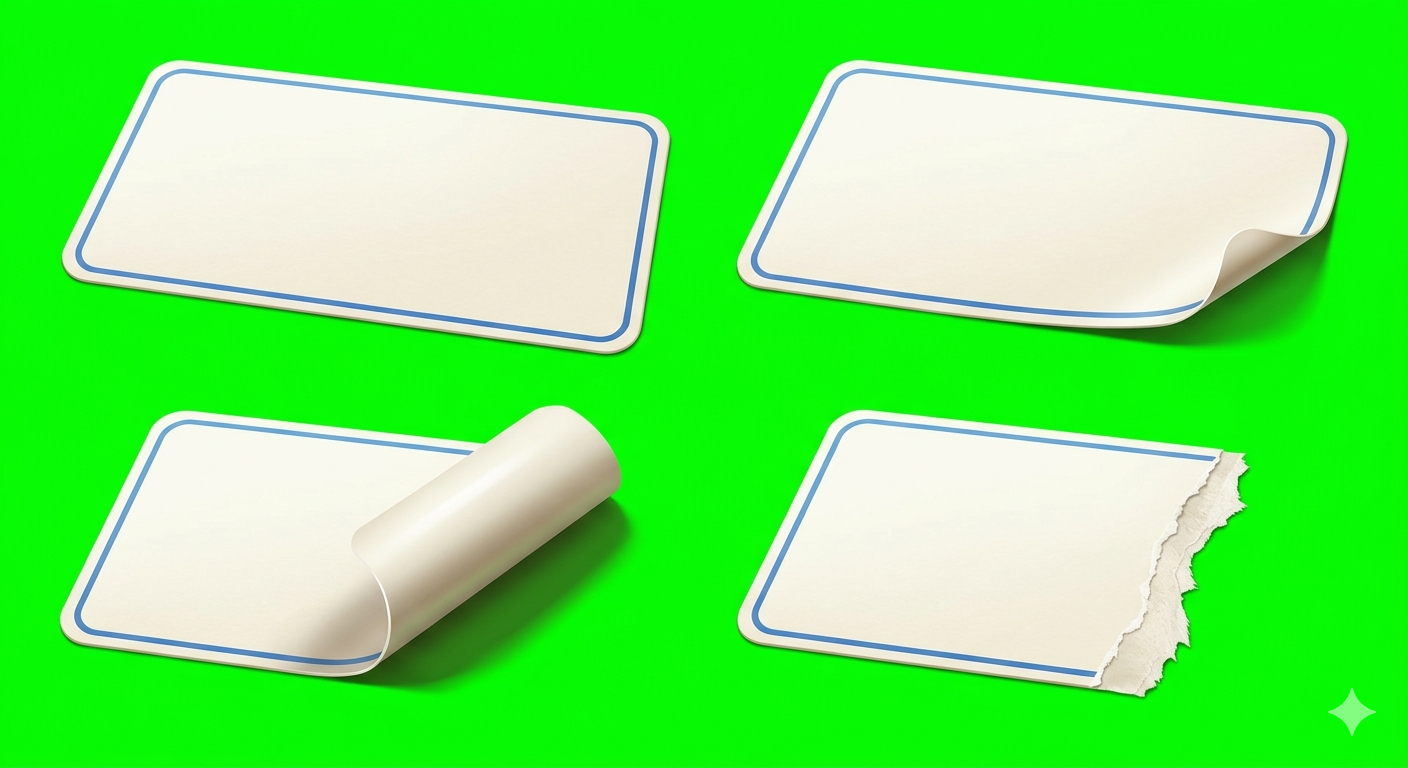
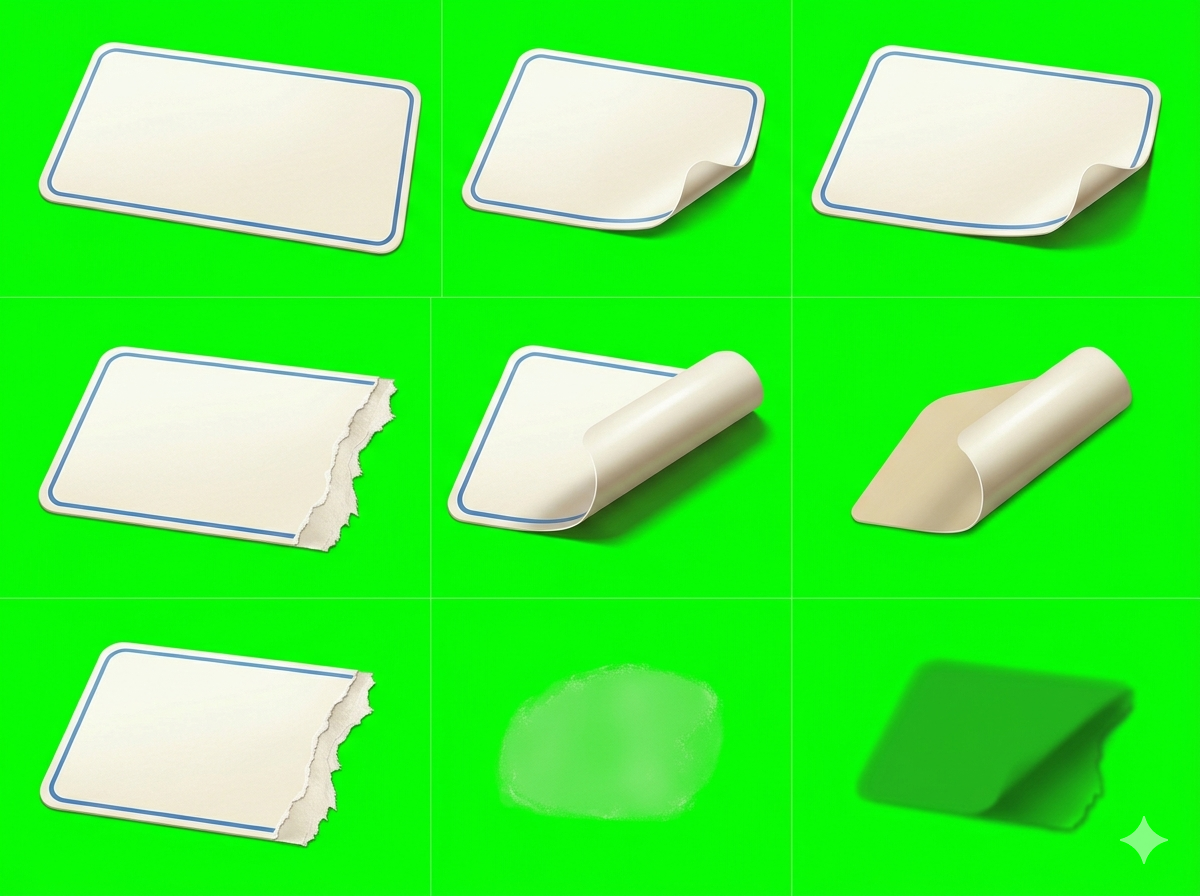
deploy: animate sticker atlas layers

diff --git a/assets/index-CZE3Z9cA.js b/assets/index-CZE3Z9cA.js
@@ -1,0 +1,64 @@
+(function(){const t=document.createElement("link").relList;if(t&&t.supports&&t.supports("modulepreload"))return;for(const l of document.querySelectorAll('link[rel="modulepreload"]'))r(l);new MutationObserver(l=>{for(const s of l)if(s.type==="childList")for(const n of s.addedNodes)n.tagName==="LINK"&&n.rel==="modulepreload"&&r(n)}).observe(document,{childList:!0,subtree:!0});function a(l){const s={};return l.integrity&&(s.integrity=l.integrity),l.referrerPolicy&&(s.referrerPolicy=l.referrerPolicy),l.crossOrigin==="use-credentials"?s.credentials="include":l.crossOrigin==="anonymous"?s.credentials="omit":s.credentials="same-origin",s}function r(l){if(l.ep)return;l.ep=!0;const s=a(l);fetch(l.href,s)}})();function $(e="ko"){return{status:"ready",locale:e,startedAt:null,result:null}}function se(e,t){const a=G(t.tearDamage),r=G(t.residueDamage),l=V(Math.round(t.progress*100-a-r),0,100),s={cleanPercent:l,tearPercent:a,residuePercent:r,elapsedMs:t.elapsedMs,rating:oe(l,a,r,t.elapsedMs,t.progress)};return{...e,status:"result",result:s}}function ne(e){return $(e.locale)}function ie(e){return e?e.rating==="Torn"?"resultTorn":e.rating==="Messy"?"resultMessy":e.residuePercent>8?"resultResidue":e.rating==="Perfect"?"resultPerfect":"resultClean":"resultTry"}function oe(e,t,a,r,l){return t>=35||l<.85?"Torn":l<1?"Messy":e>=95&&t===0&&a<=3&&r<=3e4?"Perfect":e>=82&&t<=8&&a<=12?"Clean":"Messy"}function G(e){return V(Math.round(e*100),0,100)}function V(e,t,a){return Math.min(a,Math.max(t,e))}const C=["ko","en"],ue={ko:{appTitle:"스티커떼기",startHint:"오른쪽 모서리를 잡고 낮게 당기세요",safe:"좋아요. 낮고 일정하게 당기고 있어요.",warning:"조금 세요. 힘을 목표 구간으로 낮춰요.",danger:"위로 당기거나 너무 빨라요. 찢어질 수 있어요.",retry:"다시 떼기",language:"언어",introBody:"끝까지 떼면 성공, 85% 이후에 놓으면 지저분한 완료예요. 힘 미터의 목표 구간 안에서 낮게 당겨보세요.",startButton:"시작하기",guideTitle:"규칙",guideLow:"낮은 각도로 왼쪽으로 당기기",guideMeter:"힘을 목표 구간 안에 유지하기",guideFinish:"100%까지 떼면 성공",peelProgress:"떼어진 정도",releaseAt:"85% 이후 놓으면 완료",force:"힘",forceTarget:"목표 구간",earlyRelease:"아직 덜 떼어졌어요. 계속 당겨보세요.",clean:"깔끔도",tear:"찢어짐",residue:"접착 자국",time:"시간",rating:"등급",ratingPerfect:"완벽",ratingClean:"깔끔",ratingMessy:"아쉬움",ratingTorn:"찢어짐",resultTry:"깔끔하게 떼어보세요.",resultTorn:"위로 당기거나 너무 빨라서 찢어졌어요. 다음엔 더 낮게, 더 천천히.",resultResidue:"조금 빨랐어요. 오른쪽 끝에 접착 자국이 남았어요.",resultPerfect:"각도 좋아요. 거의 완벽하게 떨어졌어요.",resultClean:"깔끔해요. 다음엔 잔여물을 더 줄여보세요.",resultMessy:"끝까지 떼었지만 자국이 남았어요. 다음엔 힘을 더 일정하게 유지해보세요."},en:{appTitle:"Sticker Peel",startHint:"Grab the right corner and peel low",safe:"Smooth. Keep it low and steady.",warning:"Too much force. Ease back into the target band.",danger:"Too high or too fast. It may tear.",retry:"Peel again",language:"Language",introBody:"Peel to 100% to win. Releasing after 85% counts as a messy finish. Keep force inside the target band.",startButton:"Start",guideTitle:"Rules",guideLow:"Pull left at a low angle",guideMeter:"Keep force in the target band",guideFinish:"Reach 100% to finish clean",peelProgress:"Peel progress",releaseAt:"Release after 85% to finish",force:"Force",forceTarget:"Target band",earlyRelease:"Not peeled enough. Keep pulling.",clean:"Clean",tear:"Tear",residue:"Residue",time:"Time",rating:"Rating",ratingPerfect:"Perfect",ratingClean:"Clean",ratingMessy:"Messy",ratingTorn:"Torn",resultTry:"Try a clean peel.",resultTorn:"Too high or too fast. Next time, pull lower and slower.",resultResidue:"A little too fast. Sticky residue stayed behind.",resultPerfect:"Great angle. Almost a perfect clean peel.",resultClean:"Clean finish. Try for less residue next time.",resultMessy:"Fully removed, but residue stayed behind. Keep the force steadier next time."}};function h(e,t="ko"){const a=C.includes(t)?t:"ko";return ue[a][e]}function de(){const e=new Map;return{auth:{async getCurrentUser(){return{id:"guest",kind:"guest"}}},ads:{async showPlacement(t){return{shown:!1,reason:"not_configured"}}},payments:{async purchase(t){return{granted:!1,reason:"not_configured"}}},storage:{async get(t){return e.get(t)??null},async set(t,a){e.set(t,a)}},analytics:{track(t,a){}},haptics:{emit(t){}},audio:{emit(t){}},share:{async shareResult(t){return{shared:!1,reason:"not_configured"}}},backend:{async request(t){return{ok:!1,reason:"not_configured"}}}}}const fe={"peel.safePulse":8,"peel.warningPulse":18,"peel.dangerPulse":32,"peel.releaseTap":22,"peel.tearSnap":44},he={"peel:safe:start":330,"peel:safe:loop":280,"peel:warning:loop":190,"peel:danger:tick":140,"peel:release":520,"peel:tear":90,"ui:start":460,"ui:retry":390};function pe(){return{...de(),haptics:{emit(t){"vibrate"in navigator&&navigator.vibrate(fe[t])}},audio:{emit(t){ge(he[t],t)}}}}function ge(e,t){const a=window.AudioContext;if(!a)return;const r=new a,l=r.createOscillator(),s=r.createGain(),n=t==="peel:tear"?.16:.08;l.frequency.value=e,l.type=t==="peel:tear"?"sawtooth":"sine",s.gain.value=t==="peel:warning:loop"||t==="peel:danger:tick"?.035:.05,l.connect(s),s.connect(r.destination),l.start(),l.stop(r.currentTime+n),l.addEventListener("ended",()=>{r.close().catch(()=>{})})}const U=35,ce=65,me=260,ye=430,j=280,we=450,be=900;function Me(){return{progress:0,tension:0,warningTimeMs:0,dangerTimeMs:0,tearDamage:0,residueDamage:0,tearPreview:!1,torn:!1}}function Te(e){const t=O(e.dragDelta)/Math.max(e.deltaMs,1)*1e3,a=Le(e.dragDelta,e.idealDirection),r=Math.abs(t-e.previousSpeed);let l="safe";return a>ce||t>ye||r>j?l="danger":(a>U||t>me)&&(l="warning"),{zone:l,speed:t,angleDegrees:a,jerk:r}}function ve(e,t){const a=Te(t),r=t.deltaMs/1e3,l=Se(a,r),s=v(e.progress+l,0,1),n=a.zone==="warning"||a.zone==="danger"?e.warningTimeMs+t.deltaMs:Math.max(0,e.warningTimeMs-t.deltaMs*2),o=a.zone==="danger"?e.dangerTimeMs+t.deltaMs:Math.max(0,e.dangerTimeMs-t.deltaMs*2),d=Pe(e.tension,a.zone,t.deltaMs),p=o>=we&&a.zone==="danger",c=a.angleDegrees>U&&a.jerk>j*1.35,y=e.torn||o>=be||c,R=v(e.tearDamage+(y?.12:a.zone==="danger"?r*.08:0),0,1),P=v(e.residueDamage+(a.zone==="warning"?l*.18:a.zone==="danger"?l*.35:0),0,1);return{zone:a.zone,pull:a,state:{progress:s,tension:d,warningTimeMs:n,dangerTimeMs:o,tearDamage:R,residueDamage:P,tearPreview:p&&!y,torn:y}}}function Se(e,t){if(e.speed<20)return 0;const a=e.speed/900*t;return e.zone==="safe"?a:e.zone==="warning"?a*.72:a*.42}function Pe(e,t,a){const r=a/100;return v(t==="safe"?e-r*.24:t==="warning"?e+r*.08:e+r*.16,0,1)}function Le(e,t){const a=O(e),r=O(t);if(a===0||r===0)return 0;const l=e.x*t.x+e.y*t.y,s=v(l/(a*r),-1,1);return Math.acos(s)*(180/Math.PI)}function O(e){return Math.hypot(e.x,e.y)}function v(e,t,a){return Math.min(a,Math.max(t,e))}function _(e){const a=Math.max(0,-e.pullOffsetX)/Math.max(1,e.stickerWidth*.92);return Ee(Math.max(e.physicsProgress,a),0,1)}function Ce(e){return e!=="result"}function Ee(e,t,a){return Math.min(a,Math.max(t,e))}const De={x:-1,y:0},Re=.85,L={minX:-420,maxX:36,minY:-140,maxY:140};function I(e="ko"){return{status:"intro",locale:e,game:$(e),physics:Me(),pullOffset:{x:0,y:0},previousSpeed:0,elapsedMs:0}}function J(e){return e.status!=="intro"?e:{...e,status:"ready"}}function Ae(e,t){if(e.status==="intro"||e.status==="result")return e;const a=ve(e.physics,{deltaMs:t.deltaMs,dragDelta:t.dragDelta,idealDirection:De,previousSpeed:e.previousSpeed}),r=e.elapsedMs+t.deltaMs,l=We(a.zone,a.state),s=Ie(e.pullOffset,t.dragDelta),n=t.stickerWidth?_({physicsProgress:a.state.progress,pullOffsetX:s.x,stickerWidth:t.stickerWidth}):a.state.progress,o={...a.state,progress:Math.max(a.state.progress,n)};return o.torn?{...W({...e,status:"torn",physics:o,pullOffset:s,previousSpeed:a.pull.speed,elapsedMs:r}),status:"result"}:o.progress>=1?{...W({...e,status:l,physics:o,pullOffset:s,previousSpeed:a.pull.speed,elapsedMs:r}),status:"result"}:{...e,status:l,physics:o,pullOffset:s,previousSpeed:a.pull.speed,elapsedMs:r}}function W(e){const t=se(e.game,{progress:e.physics.progress,tearDamage:e.physics.torn?Math.max(e.physics.tearDamage,.35):e.physics.tearDamage,residueDamage:e.physics.residueDamage,elapsedMs:e.elapsedMs});return{...e,status:"result",game:t}}function He(e){return e.status==="intro"||e.status==="result"?e:e.physics.torn||e.physics.progress>=Re?W({...e,status:e.physics.torn?"torn":"released"}):{...e,status:_e(e)}}function Oe(e){return{...I(e.locale),game:ne(e.game)}}function We(e,t){return t.torn?"torn":t.progress>=1?"released":e==="safe"?"peelingSafe":e==="warning"?"peelingWarning":"peelingDanger"}function _e(e){return e.physics.progress<=0?"ready":e.physics.tearPreview||e.physics.tension>.68?"peelingDanger":e.physics.tension>.34?"peelingWarning":"peelingSafe"}function Ie(e,t){return{x:B(e.x+t.x,L.minX,L.maxX),y:B(e.y+t.y,L.minY,L.maxY)}}function B(e,t,a){return Math.min(a,Math.max(t,e))}const Xe=["flat","liftedSmall","liftedWide","torn","rolled","flap","tornAlt","residue","shadow"],Fe={flat:{column:0,row:0},liftedSmall:{column:1,row:0},liftedWide:{column:2,row:0},torn:{column:0,row:1},rolled:{column:1,row:1},flap:{column:2,row:1},tornAlt:{column:0,row:2},residue:{column:1,row:2},shadow:{column:2,row:2}},Ye={flat:{right:40,bottom:10},torn:{right:28},tornAlt:{right:28},rolled:{right:28,top:8,bottom:12},flap:{left:18,right:20,top:8,bottom:10},shadow:{left:12,right:8,top:8,bottom:8}};function Ge(e){return e.torn?"torn":e.visualProgress>=.48?"rolled":e.visualProgress>=.18||Math.abs(e.pullOffset.x)>70?"liftedWide":e.visualProgress>.025||Math.abs(e.pullOffset.x)>2||Math.abs(e.pullOffset.y)>2?"liftedSmall":"flat"}function Be(e,t){const a=Fe[e],r=Math.round(t.width*a.column/3),l=Math.round(t.width*(a.column+1)/3),s=Math.round(t.height*a.row/3),n=Math.round(t.height*(a.row+1)/3);return{x:r,y:s,width:l-r,height:n-s}}function Ke(e,t){const a=Be(e,t),r=Ye[e]??{},l=Math.max(0,a.x-(r.left??0)),s=Math.max(0,a.y-(r.top??0)),n=Math.min(t.width,a.x+a.width+(r.right??0)),o=Math.min(t.height,a.y+a.height+(r.bottom??0));return{x:l,y:s,width:n-l,height:o-s}}function qe(e){const t=b(e.visualProgress,0,1),a=Math.max(0,-e.pullOffset.x),r=b(t*1.3+a/520,0,1),l=b(Math.max(0,-e.pullOffset.y)/120,0,1),s=b(r+e.tension*.35+l*.18,0,1),n=e.torn?0:b((t-.16)/.34,0,1);return{baseKey:e.torn?t>.32?"tornAlt":"torn":Ge(e),flap:{offsetX:-18-a*.12,offsetY:e.pullOffset.y*.08-s*10,rotation:-.09-s*.18+b(e.pullOffset.y/260,-.09,.06),scaleX:.84+s*.2,scaleY:.8+s*.16,opacity:n*.5},residue:{offsetX:-t*42,offsetY:10+e.pullOffset.y*.02,rotation:-.05,scaleX:.62+t*.38,scaleY:.48+t*.28,opacity:e.torn?.2:b(t*.42,0,.42)},shadow:{offsetX:-8-a*.07,offsetY:32+s*16,rotation:-.04,scaleX:.82+s*.42,scaleY:.5+s*.28,opacity:e.torn?.1:b(.18+s*.36,0,.52)}}}function Ne(e,t,a,r){if(r===0)return 0;const l=t-Math.max(e,a),s=t>=150&&l>=55,n=t>=95&&l>=45&&t>e*1.45&&t>a*1.45,o=t>=45&&l>=22&&t>e*1.25&&t>a*1.25;return s||n||o?0:r}async function ze(e){const t=await $e(e),a={};for(const r of Xe)a[r]=Ve(t,Ke(r,t));return a}function $e(e){return new Promise((t,a)=>{const r=new Image;r.onload=()=>t(r),r.onerror=()=>a(new Error(`Unable to load sticker sheet: ${e}`)),r.src=e})}function Ve(e,t){const a=document.createElement("canvas");a.width=t.width,a.height=t.height;const r=a.getContext("2d",{willReadFrequently:!0});if(!r)throw new Error("Canvas 2D context is unavailable for sticker sprite processing");r.drawImage(e,t.x,t.y,t.width,t.height,0,0,t.width,t.height);const l=r.getImageData(0,0,t.width,t.height);return Ue(l),r.putImageData(l,0,0),{image:a,width:t.width,height:t.height}}function Ue(e){const{data:t}=e;for(let a=0;a<t.length;a+=4)t[a+3]=Ne(t[a],t[a+1],t[a+2],t[a+3])}function b(e,t,a){return Math.min(a,Math.max(t,e))}function je(e,t,a,r={}){const{width:l,height:s}=e.getBoundingClientRect(),n=window.devicePixelRatio||1;e.width=Math.floor(l*n),e.height=Math.floor(s*n),t.setTransform(n,0,0,n,0,0),t.clearRect(0,0,l,s),Je(t,l,s);const o=Ze(l,s);Qe(t,o);const d=ke(o,l,s);xe(t,d,a),et(t,d,a,r.stickerSprites??null),Ce(a.status)&&it(t,d,a,!!r.stickerSprites),ut(t,d,a);const p=X(d,a),c=new DOMRect(p.x-58,p.y-42,88,88);return{sticker:d,liftedCorner:c}}function Je(e,t,a){const r=e.createLinearGradient(0,0,t,a);r.addColorStop(0,"#fbf7f0"),r.addColorStop(.54,"#eef5ef"),r.addColorStop(1,"#d9e9e4"),e.fillStyle=r,e.fillRect(0,0,t,a),e.save(),e.globalAlpha=.16,e.fillStyle="#c8d4ce";for(let l=0;l<36;l+=1){const s=l*97%Math.max(t,1),n=l*53%Math.max(a,1);e.fillRect(s,n,1,1)}e.restore()}function Ze(e,t){const a=Math.min(e*.9,820),r=Math.min(t*.52,470);return new DOMRect((e-a)/2,t*.19,a,r)}function Qe(e,t){e.save(),e.shadowColor="rgba(63, 71, 62, 0.16)",e.shadowBlur=34,e.shadowOffsetY=20,w(e,t.x,t.y,t.width,t.height,14);const a=e.createLinearGradient(t.x,t.y,t.right,t.bottom);a.addColorStop(0,"#fffdf7"),a.addColorStop(.58,"#f1efe4"),a.addColorStop(1,"#e4eadf"),e.fillStyle=a,e.fill(),e.shadowColor="transparent",e.strokeStyle="rgba(110, 122, 104, 0.18)",e.lineWidth=2,e.stroke(),e.globalAlpha=.16;for(let r=0;r<12;r+=1)e.beginPath(),e.moveTo(t.x+24,t.y+30+r*34),e.lineTo(t.right-24,t.y+24+r*34),e.strokeStyle=r%2===0?"#c7d3c8":"#ffffff",e.lineWidth=1,e.stroke();e.restore()}function ke(e,t,a){const r=Math.min(e.width*.66,t<520?t*.82:520),l=Math.min(e.height*.22,a<620?96:118);return new DOMRect(e.x+(e.width-r)/2,e.y+(e.height-l)/2,r,l)}function xe(e,t,a){const r=a.physics.residueDamage,l=_({physicsProgress:a.physics.progress,pullOffsetX:a.pullOffset.x,stickerWidth:t.width});if(r<=.01&&l<=.01)return;const s=t.width*l,n=t.right-s;e.save(),e.globalAlpha=Math.min(.32,r+l*.14+.06),w(e,n,t.y+5,s,t.height-10,7),e.fillStyle="#e6cf93",e.fill(),e.fillStyle="#d6b767";const o=Math.ceil((r+l*.28)*28);for(let d=0;d<o;d+=1){const p=n+Math.max(10,s)*(d*37%86/100),c=t.y+12+d*29%Math.max(24,t.height-24);e.beginPath(),e.ellipse(p,c,8+d%4*3,3+d%3,-.3,0,Math.PI*2),e.fill()}e.restore()}function et(e,t,a,r){const l=a.status==="result"&&!a.physics.torn?1:_({physicsProgress:a.physics.progress,pullOffsetX:a.pullOffset.x,stickerWidth:t.width}),s=t.width*Math.max(0,1-l),n=t.x+s,o=F(a),d=X(t,a),p=l>0||Math.abs(a.pullOffset.x)>1||Math.abs(a.pullOffset.y)>1,c=a.status==="result"&&l>=.99&&!a.physics.torn;if(e.save(),c){e.restore();return}if(r){tt(e,t,a,r,l,p),e.restore();return}if(s>2){e.save(),e.shadowColor="rgba(45, 41, 22, 0.1)",e.shadowBlur=14,e.shadowOffsetY=7,e.beginPath(),e.rect(t.x,t.y,s,t.height),e.clip(),w(e,t.x,t.y,t.width,t.height,8);const y=e.createLinearGradient(t.x,t.y,t.x,t.bottom);y.addColorStop(0,"rgba(255, 250, 216, 0.64)"),y.addColorStop(.48,"rgba(255, 238, 171, 0.46)"),y.addColorStop(1,"rgba(244, 217, 128, 0.38)"),e.fillStyle=y,e.fill(),e.shadowColor="transparent",e.strokeStyle="rgba(178, 143, 54, 0.28)",e.lineWidth=1.5,e.stroke(),ot(e,t,s),e.restore()}p&&st(e,t,n,d,o),s>2&&p&&(e.save(),e.strokeStyle=o,e.lineWidth=2.2,e.beginPath(),e.moveTo(n,t.y+4),e.lineTo(n,t.bottom-4),e.stroke(),e.restore()),lt(e,t,s,a),nt(e,t,l,o,d),e.restore()}function tt(e,t,a,r,l,s){const n=qe({visualProgress:l,pullOffset:a.pullOffset,tension:a.physics.tension,torn:a.physics.torn}),o=r[n.baseKey],d=o.width/o.height,p=t.width*(n.baseKey==="rolled"?1.28:1.22),c=p/d,y=n.baseKey==="flat"?0:Math.max(-22,Math.min(10,a.pullOffset.x*.05)),R=n.baseKey==="flat"?0:Math.max(-18,Math.min(16,a.pullOffset.y*.05)),P=t.x-t.width*.14+y,Y=t.y-c*.38+R;A(e,r.shadow,{x:P+t.width*.34+n.shadow.offsetX,y:Y+c*.46+n.shadow.offsetY,width:t.width*.74,opacity:n.shadow.opacity,rotation:n.shadow.rotation,scaleX:n.shadow.scaleX,scaleY:n.shadow.scaleY}),A(e,o,{x:P,y:Y,width:p,opacity:a.status==="result"&&a.physics.torn?.98:1,rotation:n.baseKey==="flat"?0:Math.max(-.04,Math.min(.04,a.pullOffset.y/800)),scaleX:1,scaleY:1}),A(e,r.flap,{x:t.x+t.width*.42+n.flap.offsetX,y:t.y-c*.16+n.flap.offsetY,width:t.width*.58,opacity:n.flap.opacity,rotation:n.flap.rotation,scaleX:n.flap.scaleX,scaleY:n.flap.scaleY}),s&&!a.physics.torn&&at(e,t,a,l),a.physics.tearPreview&&!a.physics.torn&&rt(e,t)}function A(e,t,a){if(a.opacity<=.01)return;const r=t.width/t.height,l=a.width/r;e.save(),e.globalAlpha*=a.opacity,e.translate(a.x+a.width/2,a.y+l/2),e.rotate(a.rotation),e.scale(a.scaleX,a.scaleY),e.drawImage(t.image,-a.width/2,-l/2,a.width,l),e.restore()}function at(e,t,a,r){const l=X(t,a),s=t.right-t.width*Math.min(.9,r);e.save(),e.globalAlpha=.5,e.strokeStyle=F(a),e.lineWidth=2,e.beginPath(),e.moveTo(s,t.y+t.height*.12),e.quadraticCurveTo(l.x-24,l.y-18,l.x+20,l.y+12),e.stroke(),e.restore()}function rt(e,t){e.save(),e.globalAlpha=.72,e.strokeStyle="#d94a45",e.lineWidth=2,e.beginPath(),e.moveTo(t.right-t.width*.16,t.y+16),e.lineTo(t.right-t.width*.12,t.y+38),e.lineTo(t.right-t.width*.18,t.y+62),e.stroke(),e.restore()}function lt(e,t,a,r){e.save(),e.globalAlpha=.2,e.strokeStyle="#bca45b",e.lineWidth=1;const l=t.x+Math.max(a,16);for(let s=t.y+20;s<t.bottom-10;s+=24)e.beginPath(),e.moveTo(t.x+14,s),e.lineTo(l-12,s+(r.status==="peelingWarning"?Math.sin(s)*2:0)),e.stroke();if(e.restore(),r.physics.tearPreview||r.physics.torn){e.save(),e.strokeStyle="#c4312f",e.lineWidth=2,e.beginPath();const s=t.x+Math.max(a,t.width*.28);e.moveTo(s,t.y+18),e.lineTo(s+12,t.y+38),e.lineTo(s-4,t.y+62),e.lineTo(s+16,t.y+88),e.stroke(),e.restore()}}function st(e,t,a,r,l){const s={x:a,y:t.y+6},n={x:a,y:t.bottom-6},o={x:r.x-18,y:r.y-t.height*.3},d={x:r.x+28,y:r.y+t.height*.46};e.save(),e.shadowColor="rgba(45, 41, 22, 0.18)",e.shadowBlur=22,e.shadowOffsetY=13,e.beginPath(),e.moveTo(s.x,s.y),e.bezierCurveTo((s.x+o.x)/2,s.y-t.height*.28,o.x-12,o.y-6,o.x,o.y),e.lineTo(d.x,d.y),e.bezierCurveTo(d.x-10,d.y+12,(n.x+d.x)/2,n.y+t.height*.24,n.x,n.y),e.closePath();const p=e.createLinearGradient(s.x,t.y,r.x,r.y+t.height);p.addColorStop(0,"rgba(255, 250, 219, 0.72)"),p.addColorStop(.55,"rgba(255, 232, 145, 0.5)"),p.addColorStop(1,"rgba(255, 248, 216, 0.76)"),e.fillStyle=p,e.fill(),e.shadowColor="transparent",e.strokeStyle=l,e.lineWidth=2,e.stroke(),e.globalAlpha=.42,e.strokeStyle="#fffdf1",e.lineWidth=2,e.beginPath(),e.moveTo((s.x+o.x)/2-6,t.y+18),e.quadraticCurveTo(r.x-28,r.y-8,(n.x+d.x)/2-8,t.bottom-20),e.stroke(),e.globalAlpha=.22,e.strokeStyle="#bca45b",e.lineWidth=1,e.beginPath(),e.moveTo((s.x+o.x)/2,t.y+22),e.quadraticCurveTo(r.x-20,r.y+4,(n.x+d.x)/2,t.bottom-18),e.stroke(),e.restore()}function nt(e,t,a,r,l){const s=a===0?Math.sin(performance.now()/260)*3:0,n=Math.min(112,t.width*.24),o=Math.min(76,t.height*.72);e.save(),e.translate(l.x,l.y+s),e.rotate(a===0?-.22:-.08),e.shadowColor="rgba(45, 41, 22, 0.18)",e.shadowBlur=16,e.shadowOffsetY=8,w(e,-n*.46,-o*.34,n,o,10);const d=e.createLinearGradient(0,-o*.34,0,o*.5);d.addColorStop(0,"rgba(255, 253, 228, 0.82)"),d.addColorStop(1,"rgba(255, 228, 143, 0.56)"),e.fillStyle=d,e.fill(),e.shadowColor="transparent",e.strokeStyle=r,e.lineWidth=2,e.stroke(),e.globalAlpha=.55,e.strokeStyle="#fffdf1",e.lineWidth=2,e.beginPath(),e.moveTo(-n*.24,-o*.16),e.lineTo(n*.22,-o*.08),e.stroke(),e.restore()}function X(e,t){return{x:e.right+8+t.pullOffset.x,y:e.y+e.height*.2+t.pullOffset.y}}function it(e,t,a,r){const l=t.width*.88,s=t.x+(t.width-l)/2,n=t.bottom+(r?92:26),o=a.physics.tension,d=a.physics.progress,p=F(a);e.save(),w(e,s,n,l,7,4),e.fillStyle="rgba(255, 255, 255, 0.72)",e.fill(),d>.005&&(w(e,s,n,l*d,7,4),e.fillStyle="#2f85a4",e.fill()),e.fillStyle="rgba(23, 33, 43, 0.5)",e.fillRect(s+l*.85,n-2,2,12);const c=n+18;w(e,s,c,l,7,4),e.fillStyle="rgba(255, 255, 255, 0.72)",e.fill(),w(e,s+l*.28,c,l*.34,7,4),e.fillStyle="rgba(47, 133, 164, 0.24)",e.fill(),o>.005&&(w(e,s,c,l*o,7,4),e.fillStyle=p,e.fill()),e.restore()}function ot(e,t,a){const r=t.x+a;e.save(),e.globalAlpha=.48,e.strokeStyle="#fffdf1",e.lineWidth=2,e.beginPath(),e.moveTo(t.x+18,t.y+12),e.lineTo(r-18,t.y+10),e.stroke(),e.globalAlpha=.18,e.strokeStyle="#9d8442",e.lineWidth=1,e.beginPath(),e.moveTo(t.x+22,t.bottom-12),e.lineTo(r-18,t.bottom-14),e.stroke(),e.restore()}function ut(e,t,a){a.physics.progress>0||a.status==="result"||(e.save(),e.globalAlpha=.42,e.strokeStyle="#2f85a4",e.lineWidth=3,e.setLineDash([8,8]),e.fillStyle="rgba(47, 133, 164, 0.1)",e.beginPath(),e.moveTo(t.right-12,t.y+18),e.lineTo(t.right-178,t.y+2),e.lineTo(t.right-178,t.y+52),e.lineTo(t.right-12,t.y+38),e.closePath(),e.fill(),e.beginPath(),e.moveTo(t.right-18,t.y+22),e.quadraticCurveTo(t.right-78,t.y-18,t.right-150,t.y+22),e.stroke(),e.setLineDash([]),e.beginPath(),e.moveTo(t.right-158,t.y+22),e.lineTo(t.right-144,t.y+14),e.lineTo(t.right-146,t.y+30),e.closePath(),e.fillStyle="#2f85a4",e.fill(),e.restore())}function F(e){return e.status==="peelingDanger"||e.physics.tearPreview||e.physics.torn?"#d94a45":e.status==="peelingWarning"?"#d59a2c":"#2f85a4"}function w(e,t,a,r,l,s){const n=t+r,o=a+l;e.beginPath(),e.moveTo(t+s,a),e.lineTo(n-s,a),e.quadraticCurveTo(n,a,n,a+s),e.lineTo(n,o-s),e.quadraticCurveTo(n,o,n-s,o),e.lineTo(t+s,o),e.quadraticCurveTo(t,o,t,o-s),e.lineTo(t,a+s),e.quadraticCurveTo(t,a,t+s,a),e.closePath()}const g=pe(),u=document.querySelector("#app");if(!u)throw new Error("Missing #app root");u.innerHTML=`
+  <main class="app-shell" aria-label="Sticker Peel prototype">
+    <canvas class="game-canvas" aria-label="Sticker peel play surface"></canvas>
+    <header class="top-bar">
+      <div class="brand">
+        <span class="title"></span>
+        <span class="hint"></span>
+      </div>
+      <div class="run-stats">
+        <span class="timer">0.0s</span>
+        <button class="locale-toggle" type="button"></button>
+      </div>
+    </header>
+    <section class="guide-panel" aria-live="polite">
+      <h2 class="guide-title"></h2>
+      <p class="intro-copy"></p>
+      <ul class="guide-list">
+        <li class="guide-low"></li>
+        <li class="guide-meter"></li>
+        <li class="guide-finish"></li>
+      </ul>
+      <button class="start-button" type="button"></button>
+    </section>
+    <section class="play-hud" aria-live="polite" hidden>
+      <div class="hud-status"></div>
+      <div class="hud-row">
+        <div class="hud-copy">
+          <span class="hud-label progress-label"></span>
+          <span class="hud-value progress-value"></span>
+        </div>
+        <div class="hud-track progress-track">
+          <span class="finish-marker"></span>
+          <span class="progress-fill"></span>
+        </div>
+        <span class="hud-note release-note"></span>
+      </div>
+      <div class="hud-row">
+        <div class="hud-copy">
+          <span class="hud-label force-label"></span>
+          <span class="hud-value force-value"></span>
+        </div>
+        <div class="hud-track force-track">
+          <span class="force-target"></span>
+          <span class="force-fill"></span>
+        </div>
+        <span class="hud-note force-note"></span>
+      </div>
+    </section>
+    <div class="microcopy" aria-live="polite"></div>
+    <section class="result-panel" aria-live="polite" hidden>
+      <h1 class="result-rating"></h1>
+      <p class="result-message"></p>
+      <div class="result-grid">
+        <span class="metric"><span class="metric-label clean-label"></span><span class="metric-value clean-value"></span></span>
+        <span class="metric"><span class="metric-label tear-label"></span><span class="metric-value tear-value"></span></span>
+        <span class="metric"><span class="metric-label residue-label"></span><span class="metric-value residue-value"></span></span>
+        <span class="metric"><span class="metric-label time-label"></span><span class="metric-value time-value"></span></span>
+      </div>
+      <div class="result-actions">
+        <button class="retry-button" type="button"></button>
+      </div>
+    </section>
+  </main>
+`;const m=f(u,".game-canvas",HTMLCanvasElement),Z=m.getContext("2d");if(!Z)throw new Error("Canvas 2D context is unavailable");const dt=Z,ft=f(u,".title",HTMLSpanElement),ht=f(u,".hint",HTMLSpanElement),pt=f(u,".timer",HTMLSpanElement),K=f(u,".microcopy",HTMLDivElement),q=f(u,".play-hud",HTMLElement),gt=f(u,".hud-status",HTMLDivElement),ct=f(u,".progress-label",HTMLSpanElement),mt=f(u,".progress-value",HTMLSpanElement),yt=f(u,".progress-fill",HTMLSpanElement),wt=f(u,".release-note",HTMLSpanElement),bt=f(u,".force-label",HTMLSpanElement),Mt=f(u,".force-value",HTMLSpanElement),Tt=f(u,".force-fill",HTMLSpanElement),vt=f(u,".force-note",HTMLSpanElement),St=f(u,".guide-panel",HTMLElement),Pt=f(u,".guide-title",HTMLHeadingElement),Lt=f(u,".intro-copy",HTMLParagraphElement),Ct=f(u,".guide-low",HTMLLIElement),Et=f(u,".guide-meter",HTMLLIElement),Dt=f(u,".guide-finish",HTMLLIElement),Q=f(u,".start-button",HTMLButtonElement),k=f(u,".locale-toggle",HTMLButtonElement),N=f(u,".result-panel",HTMLElement),Rt=f(u,".result-rating",HTMLHeadingElement),At=f(u,".result-message",HTMLParagraphElement),x=f(u,".retry-button",HTMLButtonElement);let i=I(),S=null,E=!1,T=null,D=i.status,ee=null;const M={cleanLabel:f(u,".clean-label",HTMLSpanElement),cleanValue:f(u,".clean-value",HTMLSpanElement),tearLabel:f(u,".tear-label",HTMLSpanElement),tearValue:f(u,".tear-value",HTMLSpanElement),residueLabel:f(u,".residue-label",HTMLSpanElement),residueValue:f(u,".residue-value",HTMLSpanElement),timeLabel:f(u,".time-label",HTMLSpanElement),timeValue:f(u,".time-value",HTMLSpanElement)};function te(){S=je(m,dt,i,{stickerSprites:ee}),Ht(),requestAnimationFrame(te)}function Ht(){if(document.documentElement.lang=i.locale,document.title=h("appTitle",i.locale),ft.textContent=h("appTitle",i.locale),ht.textContent=i.status==="ready"?h("startHint",i.locale):H(i),pt.textContent=`${(i.elapsedMs/1e3).toFixed(1)}s`,k.textContent=i.locale==="ko"?"EN":"KO",K.textContent=H(i),K.hidden=!0,St.hidden=i.status!=="intro",q.hidden=i.status==="intro"||i.status==="result",q.dataset.zone=Wt(i),gt.textContent=H(i),Ot(),Pt.textContent=h("guideTitle",i.locale),Lt.textContent=h("introBody",i.locale),Ct.textContent=h("guideLow",i.locale),Et.textContent=h("guideMeter",i.locale),Dt.textContent=h("guideFinish",i.locale),Q.textContent=h("startButton",i.locale),x.textContent=h("retry",i.locale),!i.game.result){N.hidden=!0;return}const e=i.game.result;N.hidden=!1,Rt.textContent=h(It(e.rating),i.locale),At.textContent=h(ie(e),i.locale),M.cleanLabel.textContent=h("clean",i.locale),M.cleanValue.textContent=`${e.cleanPercent}%`,M.tearLabel.textContent=h("tear",i.locale),M.tearValue.textContent=`${e.tearPercent}%`,M.residueLabel.textContent=h("residue",i.locale),M.residueValue.textContent=`${e.residuePercent}%`,M.timeLabel.textContent=h("time",i.locale),M.timeValue.textContent=`${(e.elapsedMs/1e3).toFixed(1)}s`}function Ot(){const e=Math.round(i.physics.progress*100),t=Math.round(i.physics.tension*100);ct.textContent=h("peelProgress",i.locale),mt.textContent=`${e}%`,yt.style.width=`${Math.min(100,e)}%`,wt.textContent=e>=85?h("releaseAt",i.locale):h("earlyRelease",i.locale),bt.textContent=h("force",i.locale),Mt.textContent=`${t}%`,Tt.style.width=`${Math.min(100,t)}%`,vt.textContent=h("forceTarget",i.locale)}function H(e){return e.status==="peelingDanger"||e.status==="torn"?h("danger",e.locale):e.status==="peelingWarning"?h("warning",e.locale):e.status==="peelingSafe"||e.status==="released"?h("safe",e.locale):h("startHint",e.locale)}function Wt(e){return e.status==="peelingDanger"||e.status==="torn"?"danger":e.status==="peelingWarning"?"warning":"safe"}m.addEventListener("pointerdown",e=>{if(!S||i.status==="intro"||i.status==="result")return;const t=le(e);!z(t,S.liftedCorner)&&!z(t,S.sticker)||(E=!0,m.classList.add("dragging"),m.setPointerCapture(e.pointerId),T={...t,at:performance.now()},g.analytics.track("peel_started"),g.audio.emit("peel:safe:start"))});m.addEventListener("pointermove",e=>{if(!E||!T)return;const t=le(e),a=performance.now(),r=Math.max(16,a-T.at);i=Ae(i,{deltaMs:r,dragDelta:{x:t.x-T.x,y:t.y-T.y},stickerWidth:S?.sticker.width}),re(i),T={...t,at:a}});m.addEventListener("pointerup",ae);m.addEventListener("pointercancel",ae);Q.addEventListener("click",()=>{i=J(i),D=i.status,g.analytics.track("peel_game_started"),g.audio.emit("ui:start")});function ae(e){E&&(E=!1,m.classList.remove("dragging"),m.hasPointerCapture(e.pointerId)&&m.releasePointerCapture(e.pointerId),T=null,i=He(i),re(i))}k.addEventListener("click",async()=>{const e=_t(i.locale);i={...i,locale:e,game:{...i.game,locale:e}},await g.storage.set("locale",e)});x.addEventListener("click",()=>{g.audio.emit("ui:retry"),i=J(Oe(i)),D=i.status});function re(e){e.status!==D&&(D=e.status,e.status==="peelingSafe"?(g.haptics.emit("peel.safePulse"),g.audio.emit("peel:safe:loop")):e.status==="peelingWarning"?(g.haptics.emit("peel.warningPulse"),g.audio.emit("peel:warning:loop")):e.status==="peelingDanger"?(g.haptics.emit("peel.dangerPulse"),g.audio.emit("peel:danger:tick")):e.status==="torn"||e.status==="result"&&e.game.result?.rating==="Torn"?(g.haptics.emit("peel.tearSnap"),g.audio.emit("peel:tear")):e.status==="result"&&(g.haptics.emit("peel.releaseTap"),g.audio.emit("peel:release")))}function le(e){const t=m.getBoundingClientRect();return{x:e.clientX-t.left,y:e.clientY-t.top}}function z(e,t){return e.x>=t.left&&e.x<=t.right&&e.y>=t.top&&e.y<=t.bottom}function _t(e){const t=C.indexOf(e);return C[(t+1)%C.length]}function It(e){return{Perfect:"ratingPerfect",Clean:"ratingClean",Messy:"ratingMessy",Torn:"ratingTorn"}[e]}function f(e,t,a){const r=e.querySelector(t);if(!(r instanceof a))throw new Error(`Missing element: ${t}`);return r}g.storage.get("locale").then(e=>{(e==="ko"||e==="en")&&(i=I(e))});ze("/perfectpeel/assets/stickers/sticker-sheet.png").then(e=>{ee=e}).catch(e=>{console.warn(e)});requestAnimationFrame(te);

diff --git a/index.html b/index.html
@@ -4,7 +4,7 @@
     <meta charset="UTF-8" />
     <meta name="viewport" content="width=device-width, initial-scale=1.0, viewport-fit=cover" />
     <title>스티커떼기</title>
-    <script type="module" crossorigin src="/perfectpeel/assets/index-wkhvY55Y.js"></script>
+    <script type="module" crossorigin src="/perfectpeel/assets/index-CZE3Z9cA.js"></script>
     <link rel="stylesheet" crossorigin href="/perfectpeel/assets/index-Cm2_PPqy.css">
   </head>
   <body>